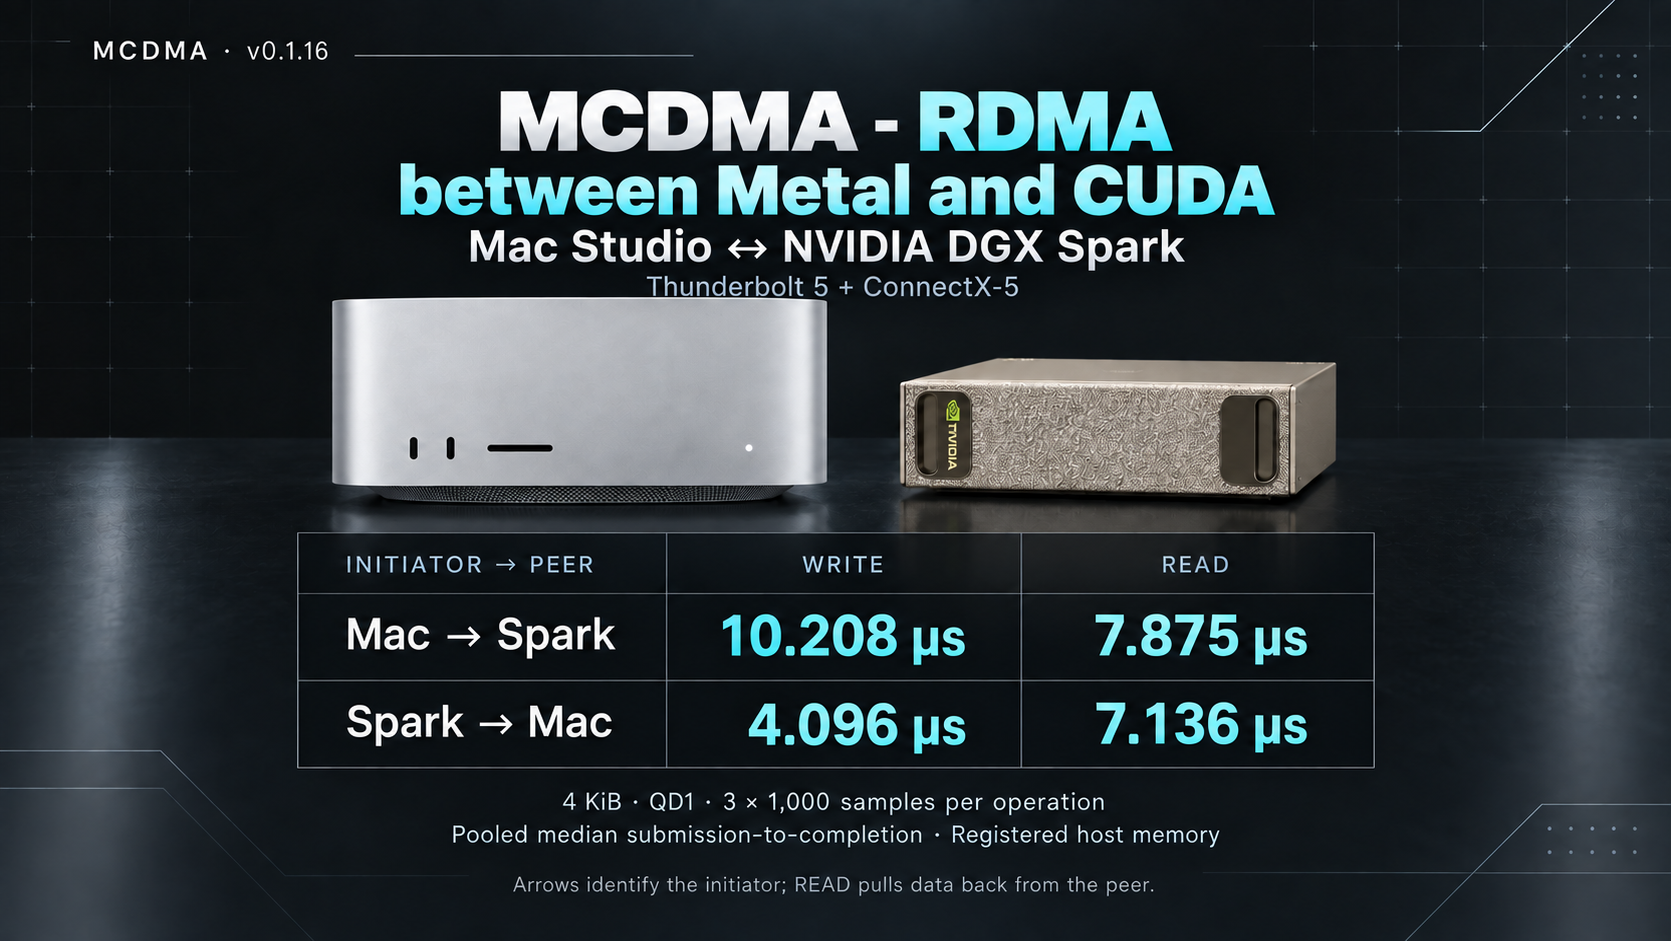
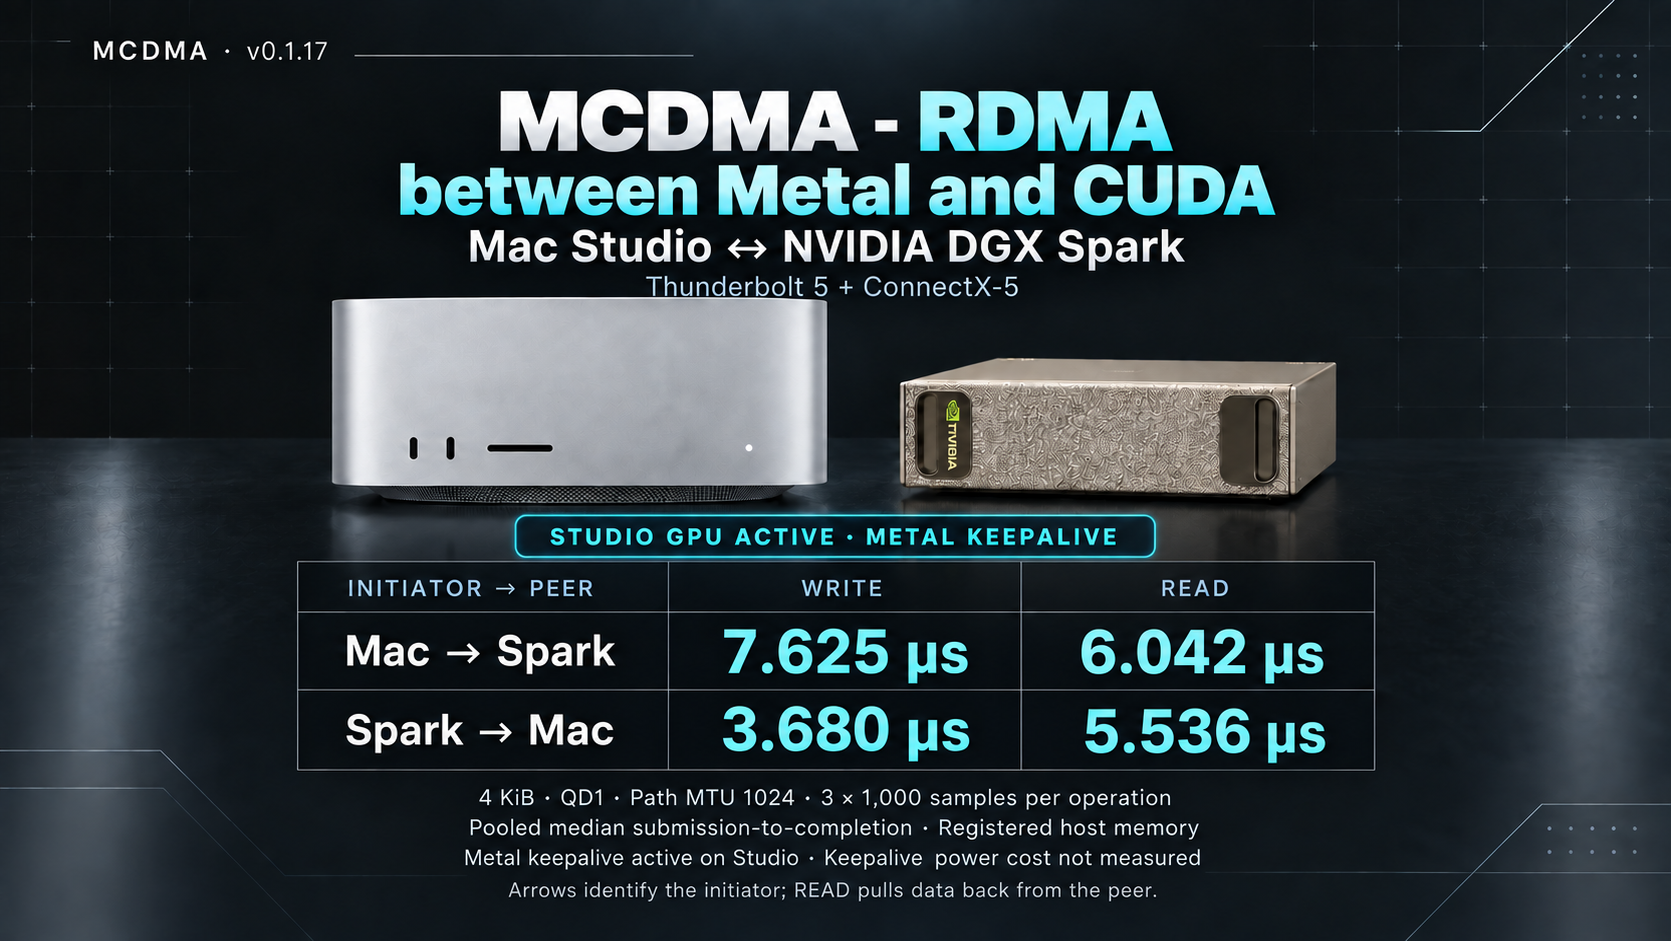
Publish GPU-active RDMA measurements and Metal keepalive

diff --git a/client/fabric_keepalive.swift b/client/fabric_keepalive.swift
@@ -1,0 +1,96 @@
+// SPDX-License-Identifier: Apache-2.0
+// MCDMA Metal keepalive. See docs/gpu-keepalive.md for measurements and limits.
+// This optional userspace process submits GPU work; it does not configure RDMA.
+import Foundation
+import Metal
+
+func fail(_ message: String) -> Never {
+    FileHandle.standardError.write(Data(("fabric-keepalive: \(message)\n").utf8))
+    exit(2)
+}
+
+let usage = "Usage: fabric-keepalive [seconds|0=until-stopped] [small|medium]\nStop with Ctrl-C. This keeps the GPU busy and consumes power."
+let args = Array(CommandLine.arguments.dropFirst())
+if args == ["--help"] || args == ["-h"] {
+    print(usage)
+    exit(0)
+}
+guard args.count <= 2,
+      let seconds = Double(args.first ?? "0"), seconds.isFinite, seconds >= 0 else {
+    fail(usage)
+}
+let mode = args.count > 1 ? args[1] : "small"
+guard mode == "small" || mode == "medium" else { fail(usage) }
+guard let device = MTLCreateSystemDefaultDevice(),
+      let queue = device.makeCommandQueue(maxCommandBufferCount: 4) else {
+    fail("no Metal device or command queue")
+}
+
+// Preserve the measured small workload: 16,384 threads, 64 iterations,
+// one dispatch at a time, with no deliberate sleep between dispatches.
+let source = """
+#include <metal_stdlib>
+using namespace metal;
+kernel void keepalive(device float *sink [[buffer(0)]], constant uint &iterations [[buffer(1)]], uint id [[thread_position_in_grid]]) {
+    float v = sink[id];
+    for (uint i = 0; i < iterations; ++i) v = v * 1.000001f + 0.25f;
+    sink[id] = v;
+}
+"""
+let pipeline: MTLComputePipelineState
+do {
+    let library = try device.makeLibrary(source: source, options: nil)
+    guard let function = library.makeFunction(name: "keepalive") else {
+        fail("Metal kernel unavailable")
+    }
+    pipeline = try device.makeComputePipelineState(function: function)
+} catch {
+    fail("Metal compilation failed: \(error)")
+}
+let threads = mode == "medium" ? 1 << 18 : 1 << 14
+guard let sink = device.makeBuffer(length: threads * MemoryLayout<Float>.stride,
+                                   options: .storageModeShared) else {
+    fail("Metal buffer allocation failed")
+}
+memset(sink.contents(), 0, sink.length)
+
+func dispatch() -> MTLCommandBuffer {
+    guard let command = queue.makeCommandBuffer(),
+          let encoder = command.makeComputeCommandEncoder() else {
+        fail("Metal command allocation failed")
+    }
+    var iterations: UInt32 = 64
+    encoder.setComputePipelineState(pipeline)
+    encoder.setBuffer(sink, offset: 0, index: 0)
+    encoder.setBytes(&iterations, length: MemoryLayout<UInt32>.size, index: 1)
+    let width = min(threads, pipeline.maxTotalThreadsPerThreadgroup)
+    encoder.dispatchThreads(MTLSize(width: threads, height: 1, depth: 1),
+                            threadsPerThreadgroup: MTLSize(width: width, height: 1, depth: 1))
+    encoder.endEncoding()
+    command.commit()
+    return command
+}
+
+func wait(_ command: MTLCommandBuffer) {
+    command.waitUntilCompleted()
+    guard command.status == .completed else {
+        fail("Metal execution failed: \(String(describing: command.error))")
+    }
+}
+
+print("fabric-keepalive mode=\(mode) seconds=\(seconds) threads=\(threads); stop with Ctrl-C")
+fflush(stdout)
+let started = ProcessInfo.processInfo.systemUptime
+var count = 1
+var inflight = dispatch()
+while seconds == 0 || ProcessInfo.processInfo.systemUptime - started < seconds {
+    wait(inflight)
+    inflight = dispatch()
+    count += 1
+    if count % 5000 == 0 {
+        print("fabric-keepalive mode=\(mode) dispatches=\(count)")
+        fflush(stdout)
+    }
+}
+wait(inflight)
+print("fabric-keepalive done mode=\(mode) dispatches=\(count) threads=\(threads)")

diff --git a/README.md b/README.md
@@ -2,7 +2,7 @@
 
 ![MCDMA connecting a Mac Studio and NVIDIA DGX Spark over Thunderbolt 5 and ConnectX-5, with measured RDMA completion times](assets/mcdma.png)
 
-*Hardware RDMA between Mac and Spark, with verified shared Metal/CUDA buffer access.*
+*Measured host-memory RDMA with the Studio GPU active; shared Metal/CUDA buffer correctness was verified separately.*
 
 ## Speed: one Spark ↔ one Mac Studio
 
@@ -10,12 +10,16 @@
 
 | Initiator → peer | RDMA WRITE | RDMA READ |
 |---|---:|---:|
-| Mac Studio → Spark | **10.208 µs** | **7.875 µs** |
-| Spark → Mac Studio | **4.096 µs** | **7.136 µs** |
+| Mac Studio → Spark | **7.625 µs** | **6.042 µs** |
+| Spark → Mac Studio | **3.680 µs** | **5.536 µs** |
 
-Measured on **macOS 27, build 26A428**, with an **M3 Ultra Mac Studio, 256 GB**, and **one NVIDIA DGX Spark**, using MCDMA 0.1.16 and the Mac's userspace BlueFlame-64 path. These are 4 KiB submission-to-application-observed-completion medians at queue depth one, pooled across three runs with 1,000 samples per operation per initiator after 100 warmups. The full six-configuration campaign recorded 144,000 samples, with outliers retained.
+Measured on **macOS 27, build 26A428**, with an **M3 Ultra Mac Studio, 256 GB**, and **one NVIDIA DGX Spark**, using lab driver **0.1.17**, userspace BlueFlame-64 and **continuous Metal keepalive on the Studio**. These are 4 KiB submission-to-application-observed-completion medians at queue depth one and **RDMA path MTU 1024**, pooled across three runs with 1,000 samples per operation per initiator after 100 warmups. All 12,000 measured samples are retained, including outliers.
 
-The arrow names the initiator, not the payload direction: a Mac-initiated READ fetches bytes from the Spark. These are host-memory RDMA measurements, not one-way network latency or GPU-memory results. WRITE / READ p95 values were 22.042 / 20.333 µs from the Mac and 14.960 / 20.400 µs from the Spark. The bulk research traces are retained outside this driver repository.
+The arrow names the initiator: a Mac-initiated READ fetches bytes from the Spark. These are registered host-memory measurements, not one-way network latency, GPU-buffer latency or inference results. WRITE / READ p95 values were **14.000 / 10.708 µs** from the Mac and **4.320 / 6.304 µs** from the Spark. The [measurement note](docs/gpu-keepalive.md) includes tails, per-run results and reproduction steps; raw traces remain outside this driver repository.
+
+**What changed:** keeping the Studio GPU active with a small Metal workload repeatedly reduced RDMA latency in our tests. Our working explanation is a platform power/performance state associated with GPU activity; the exact internal mechanism is not measured. `fabric-keepalive` is an optional, unprivileged userspace program with no reboot or driver setting required. It consumes GPU time and power, so test its effect on your actual workload.
+
+**Version distinction:** the measurements above used the installed lab driver 0.1.17; this repository's build and installation recipe still produce **0.1.16**. This update publishes the standalone helper, not a new driver installer. The helper uses only Metal APIs and does not require a 0.1.17-specific interface, but the same latency on 0.1.16 has not been established by this three-run set.
 
 MCDMA is an experimental native macOS RDMA driver and userspace verbs provider for Mellanox ConnectX-5 Ex, developed by **Ash Hart**. The NICs move the payload; the CPU still submits work and observes completions.
 
@@ -41,7 +45,7 @@ Installing MCDMA alone does not connect an inference engine to this path. Direct
 | Peer | One DGX Spark using its ConnectX-7 Ethernet port |
 | Current network link | 40GbE with the current cable; replacement pending |
 | Replacement cables | 2 × Mellanox MCP1600-C001E30N, 100GbE QSFP28-to-QSFP28 passive copper DAC, 1 m; not yet validated in this setup |
-| MTU | Ethernet 9000 bytes, RDMA path 4096 bytes |
+| MTU | Ethernet 9000 bytes; headline benchmark RDMA path 1024 bytes, initial validation recipe 4096 bytes |
 
 Use a separate management connection such as Wi-Fi or another Ethernet interface. MCDMA's `mcrdmaN` interfaces provide RDMA addressing, not ordinary TCP networking. The card's nominal port rate does not establish measured Thunderbolt throughput.
 
@@ -128,7 +132,17 @@ There is no separate driver daemon to launch: the approved kext attaches to the 
 
 ### 5. Verify transfers and check your speeds
 
-First run the [four-way byte-verifying test](docs/install.md#5-verify-rdma-before-using-it) in kernel mode, then direct mode and BlueFlame-64 mode. After all checks pass, use the same explicit SSH hosts, executable paths and live device names to record both initiation directions:
+First run the [four-way byte-verifying test](docs/install.md#5-verify-rdma-before-using-it) in kernel mode, then direct mode and BlueFlame-64 mode. After all checks pass, build the optional helper on the Studio and run it in a separate Terminal to reproduce the GPU-active condition:
+
+```sh
+mkdir -p build
+xcrun swiftc -O client/fabric_keepalive.swift -framework Metal -o build/fabric-keepalive
+build/fabric-keepalive 0 small
+```
+
+`0` runs until you stop it with Ctrl-C; `30 small` runs for 30 seconds. No `sudo`, extension approval or restart is needed for the helper. See [keepalive usage and controls](docs/gpu-keepalive.md#build-and-run) before comparing results.
+
+Use the same explicit SSH hosts, executable paths and live device names to record both initiation directions:
 
 ```sh
 mkdir -p results
@@ -139,15 +153,15 @@ python3 tools/native_cross_host.py \
   --mac-checker "$MAC_CHECKER" \
   --mac-interface "$MAC_IF" --peer-interface "$PEER_IF" \
   --mac-device "$MAC_RDMA_DEVICE" --peer-device "$PEER_RDMA_DEVICE" \
-  --peer-gid-index "$PEER_GID_INDEX" --path-mtu 4096 \
+  --peer-gid-index "$PEER_GID_INDEX" --path-mtu 1024 \
   --payload-bytes 4096 --mac-cq-map 2 --mac-user-post 1 --mac-user-bf 64 \
-  --mac-latency --peer-latency --output results/latency-4096-bf64.json
+  --mac-latency --peer-latency --output results/latency-4096-mtu1024-gpu-active-bf64.json
 
-python3 tools/latency_summary.py results/latency-4096-bf64.mac-latency.csv
-python3 tools/latency_summary.py results/latency-4096-bf64.spark-latency.csv
+python3 tools/latency_summary.py results/latency-4096-mtu1024-gpu-active-bf64.mac-latency.csv
+python3 tools/latency_summary.py results/latency-4096-mtu1024-gpu-active-bf64.spark-latency.csv
 ```
 
-The [guide defines every variable](docs/install.md#5-verify-rdma-before-using-it). Use noninteractive SSH over the management network; both neighbors must already be configured. The summaries report median, p95, p99, maximum and sample counts. Repeat at `--payload-bytes 1024` with a different output filename, and repeat each configuration before comparing it. Keep all logs in ignored `results/`; they can contain addresses and memory-region access keys.
+The [guide defines every variable](docs/install.md#5-verify-rdma-before-using-it). Use noninteractive SSH over the management network; both neighbors must already be configured. The summaries report median, p95, p99, maximum and sample counts. Also collect matching keepalive-off runs with fresh filenames, keeping the driver, provider, client binaries and MTU unchanged; the published 0.1.17 figures are not a guarantee for the 0.1.16 installer. Repeat at `--payload-bytes 1024` with a different output filename, and repeat each configuration before comparing it. Keep all logs in ignored `results/`; they can contain addresses and memory-region access keys.
 
 **Throughput is a separate measurement.** This beta's supplied test measures 1 KiB/4 KiB latency at queue depth one; it does not yet provide a validated sustained-bandwidth test. Do not label payload divided by median latency as link throughput, or an `iperf3` TCP result as MCDMA RDMA bandwidth. Large-transfer and queue-depth throughput testing is planned alongside the latency work.
 
@@ -161,7 +175,7 @@ I also have around **25 experiments planned for heterogeneous AI workloads**: pi
 
 ## Scope and limits
 
-The repository contains the native driver, userspace provider, build/setup tools and tests needed to validate CX5 RDMA. Runtime installation requires only the kernel extension, provider and provider configuration. Historical benchmark archives, model-serving experiments, vendor firmware, SDK/KDK files, private installers and generated binaries are excluded.
+The repository contains the native driver, userspace provider, build/setup tools and tests needed to validate CX5 RDMA. Runtime installation requires only the kernel extension, provider and provider configuration; the optional Metal keepalive runs separately. Historical benchmark archives, model-serving experiments, vendor firmware, SDK/KDK files, private installers and generated binaries are excluded.
 
 The portable setup has offline checks, but a fresh-machine installation following this recipe has not yet been completed. Foreign-QPN isolation, process death with outstanding direct work and hot removal with mapped pages remain open. The shared GPU-accessible buffer checks described above do not establish direct access to existing CUDA device allocations or Metal private buffers, inference-engine integration, universal ConnectX support or zero-CPU operation. Read [removal and recovery](docs/install.md#removal-and-recovery) before installation.
 

diff --git a/docs/gpu-keepalive.md b/docs/gpu-keepalive.md
@@ -1,0 +1,73 @@
+# GPU activity and RDMA latency
+
+On 15 September 2026, keeping the M3 Ultra Studio GPU active with a small Metal workload repeatedly reduced RDMA completion latency between the Studio and one DGX Spark. The improvement appeared in both initiation directions, even though the timed transfers used ordinary registered host memory.
+
+The optional [`fabric-keepalive`](../client/fabric_keepalive.swift) program submits a small Metal compute kernel repeatedly. It runs without root and does not configure the NIC, install a driver or change macOS settings. Stopping it stops the extra GPU work.
+
+## Measured results
+
+| Initiator | Operation | Samples | Median µs | p95 µs | p99 µs | Maximum µs |
+|---|---|---:|---:|---:|---:|---:|
+| Studio | WRITE | 3,000 | 7.625 | 14.000 | 16.708 | 25.250 |
+| Studio | READ | 3,000 | 6.042 | 10.708 | 12.791 | 20.000 |
+| Spark | WRITE | 3,000 | 3.680 | 4.320 | 4.384 | 21.312 |
+| Spark | READ | 3,000 | 5.536 | 6.304 | 7.440 | 17.392 |
+
+Conditions: M3 Ultra Studio with 256 GB, macOS 27 build `26A428`, Helios 5S over Thunderbolt 5, ConnectX-5 Ex and one DGX Spark with ConnectX-7; negotiated Ethernet rate 40 Gb/s, Ethernet MTU 9000, RDMA path MTU **1024**, 4 KiB payloads and queue depth one. The installed lab driver was **0.1.17**, with userspace completion processing, direct posting and 64-byte BlueFlame pushes. Continuous `fabric-keepalive 0 small` ran on the Studio. The probe client was built with `-O2`; per-sample WRITE filling remained enabled.
+
+Three matching runs each recorded 1,000 samples per operation per initiator after 100 warmups. Each run passed the cross-host byte checks and confirmed the requested userspace queue and BlueFlame modes. The six CSV hashes matched those recorded by the runner. Pooling all samples reproduces the headline medians without filtering. Percentiles use nearest rank; the median averages the two central samples.
+
+| Run | Studio WRITE µs | Studio READ µs | Spark WRITE µs | Spark READ µs |
+|---|---:|---:|---:|---:|
+| 1 | 7.625 | 6.083 | 3.584 | 5.376 |
+| 2 | 7.666 | 6.125 | 3.744 | 5.904 |
+| 3 | 7.500 | 5.959 | 3.776 | 5.872 |
+
+These are local submission-to-observed-completion measurements on the initiator. READ pulls bytes from the peer; the arrow in the README identifies who posted the operation. Separate shared Metal/CUDA buffer correctness tests do not turn these host-buffer timings into GPU-to-GPU or inference timings. The NIC moves the payload, while CPUs still submit and observe work.
+
+The earlier 0.1.16 headline was 10.208 / 7.875 µs from the Studio and 4.096 / 7.136 µs from the Spark. That campaign used a different path MTU and driver version, so subtracting the two tables does not isolate the keepalive's effect. Use matching off/on trials for that comparison.
+
+## What we found, and what remains an explanation
+
+Repeated experiments associated continuous small GPU dispatches with lower latency and fewer long completions. Heavier GPU work did not consistently give the best result. Inserting idle gaps often lost the benefit, while some burst patterns retained it, so there is no established universal idle-time threshold.
+
+The tested PCIe maximum-read-request sizes, relaxed-ordering and per-packet ACK options did not consistently hold the faster behavior. The lab's ASPM, power-mode and user-activity experiments also failed to reproduce the continuous-small-GPU result reliably. Those outcomes apply to this hardware and experiment, not every Mac or workload.
+
+Our working explanation is that GPU activity changes a Studio platform power/performance state that affects transactions between host memory and the Thunderbolt-attached NIC. We have not directly measured the relevant internal interconnect clock, rail or transition, so the precise mechanism remains an inference. The helper does not move the RDMA payload through Metal or make the transfer GPU-initiated.
+
+Power and resource use matter. The headline runs did not measure incremental whole-system power, and the banner records that limitation. A later lab note reports roughly 2.75 W in GPU power telemetry while the small helper was active; that is not a matched wall-power measurement or the helper's total system cost. The helper also submits commands on the CPU and can compete with inference for GPU time. An active inference loop may already produce the favorable condition, but this needs testing rather than an assumption that the improvement comes free.
+
+## Build and run
+
+Complete the [RDMA installation and correctness checks](install.md) first. The public installer currently builds **0.1.16**; this helper has no dependency on the extra 0.1.17 lab knobs, but identical performance on 0.1.16 has not been measured by the three-run set above. No driver reinstall is needed to try the helper with an already working MCDMA installation.
+
+On the target Studio, from the repository root:
+
+```sh
+mkdir -p build
+xcrun swiftc -O client/fabric_keepalive.swift -framework Metal -o build/fabric-keepalive
+build/fabric-keepalive --help
+build/fabric-keepalive 5 small
+```
+
+The bounded smoke check should print progress or a completion message and exit successfully. Compilation needs Apple's Swift toolchain and Metal framework, but the helper itself uses no private RDMA APIs or kernel SDK interfaces.
+
+For a benchmark, leave this running in a separate Terminal:
+
+```sh
+build/fabric-keepalive 0 small
+```
+
+Stop with **Ctrl-C** when the run finishes. A positive duration is measured after Metal setup; `30 small` runs the dispatch loop for approximately 30 seconds. `small` uses 16,384 GPU threads and 64 arithmetic iterations per thread, with one command outstanding and no deliberate sleep between commands. `medium` uses 262,144 threads and is an optional comparison, not the headline configuration. There is no persistent setting or automatic startup service.
+
+This public helper preserves the measured small kernel and dispatch pattern. It adds argument validation, buffer initialization, Metal error checks and monotonic duration handling, and omits experimental spin/burst modes. Its build and bounded execution checks are separate from the recorded RDMA measurements; rerun the comparison on your hardware.
+
+## Reproduce the comparison
+
+Use the [README latency command](../README.md#5-verify-transfers-and-check-your-speeds) with a **4096-byte payload and 1024-byte path MTU**. The path MTU is the RDMA transport payload size, distinct from Ethernet's configured 9000-byte MTU. Record the loaded driver version, binary hashes, active port and confirmed posting/completion modes.
+
+Collect at least three matching off/on pairs, reversing their order between pairs. Stop the helper for each off run and record other GPU activity; a machine rendering a workload is not necessarily idle. Keep binaries, payload, path MTU, queue depth, warmups and sample counts unchanged. Use a fresh output filename for every run and retain all samples and correctness failures. Do not pool off and on data together or choose only the fastest trials.
+
+The summaries report median and tail latency. Run both initiators and compare WRITE and READ separately. If inference is the goal, then measure prompt processing, token generation and power with the real model, with and without the helper. This microbenchmark establishes neither a throughput gain nor an inference speedup.
+
+Keep raw runner JSON and logs in ignored `results/` storage because they can contain addresses and memory-region access keys. This repository publishes the helper and measurement summary; bulk research traces remain outside it.

diff --git a/AGENTS.md b/AGENTS.md
@@ -46,6 +46,12 @@ Stop RDMA jobs and follow the guide's shutdown/disconnection steps before changi
 4. Run four-way byte-verifying tests in kernel mode, then direct mode, then BlueFlame-64 mode, using the explicit arguments in `docs/install.md`. Require the runner's success result and requested mode markers. Stop and preserve the error if transfer, completion, cleanup or identity checks fail.
 5. Only after correctness passes, and if the user requested performance testing, use the README's latency command for both initiators, with fresh output filenames, 1 KiB and 4 KiB payloads and repeated runs. Keep all samples and report median and tails. This test does not measure sustained link bandwidth; do not invent a throughput figure from latency, nominal link rate or TCP `iperf3` results.
 
+## Optional GPU keepalive
+
+Read `docs/gpu-keepalive.md` before trying to reproduce the GPU-active headline figures. Those measurements used lab driver 0.1.17; the public installation recipe remains 0.1.16. Do not bump versions, install a different driver or claim equivalent measured performance merely to match the banner.
+
+Build `client/fabric_keepalive.swift` with the documented Swift command on the target Studio. The helper is an ordinary Metal process and requires no root, Recovery change, driver knob or reboot. Prefer a bounded duration for a smoke check; run continuously only for the requested measurement and stop it afterward. Do not install an autostart service without a request. Record GPU-active versus idle conditions, keep the RDMA path MTU at 1024 for the headline reproduction, and compare matching off/on runs. GPU activity consumes resources and does not prove zero CPU use or an inference speedup.
+
 ## Completion report
 
 Say whether the outcome is preparation only, installed, loaded, port active, byte-verified RDMA or measured latency. Give the exact remaining owner action if blocked. Distinguish physical attachment problems, missing GIDs, OS approval, unsupported builds and transfer failures rather than calling all of them a driver problem.
